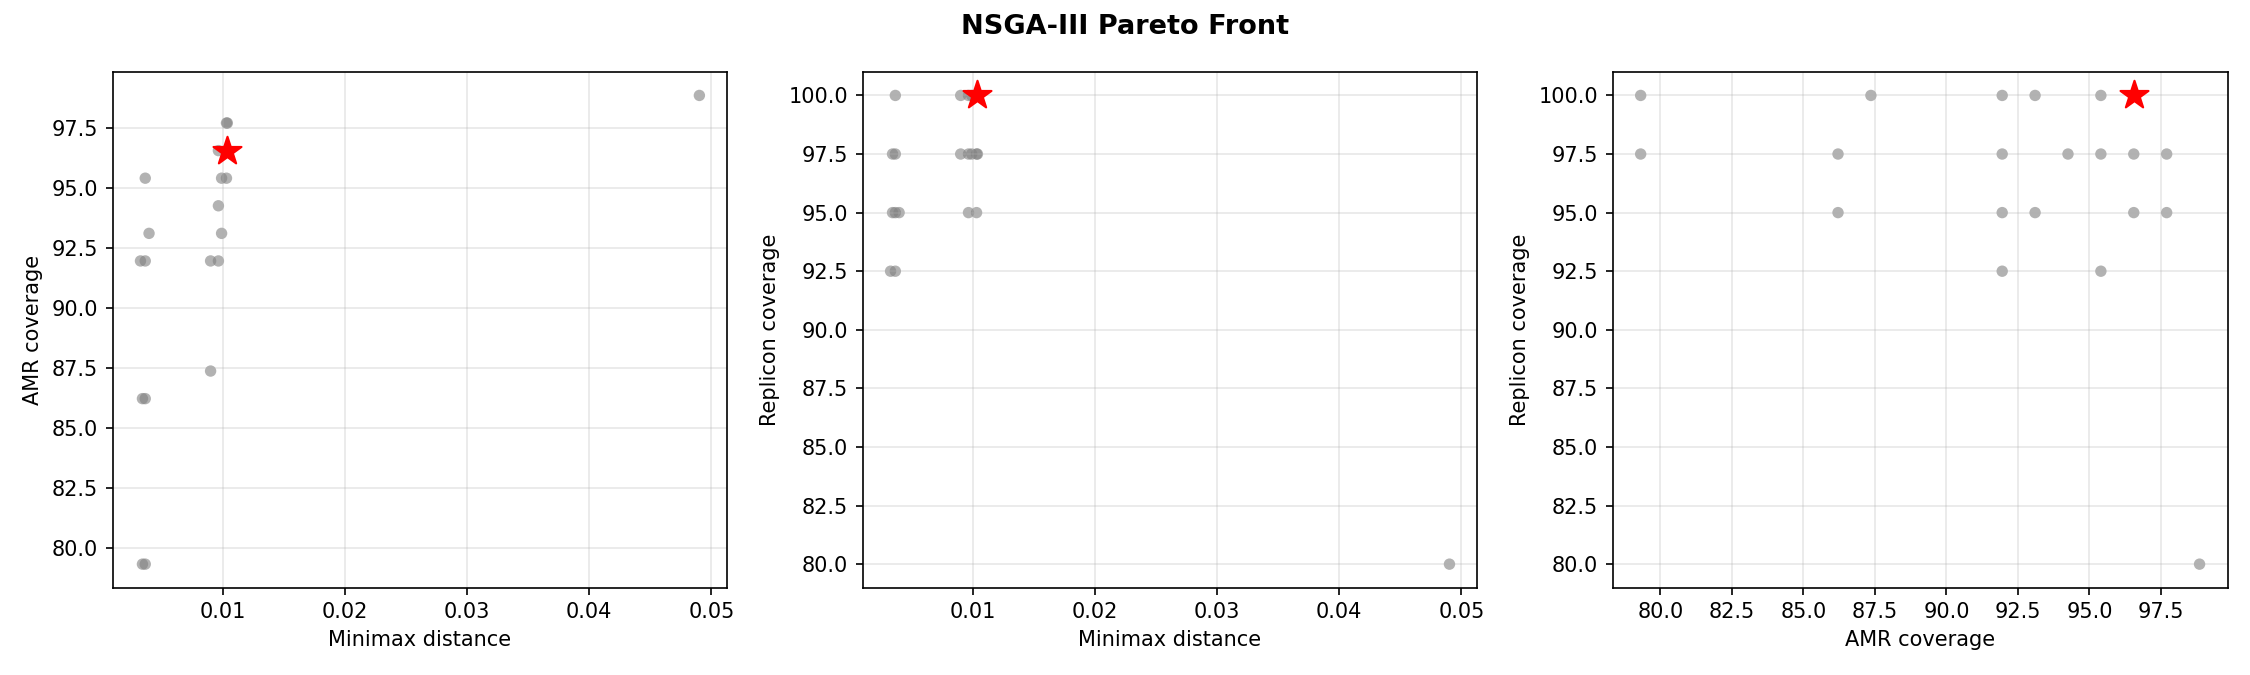
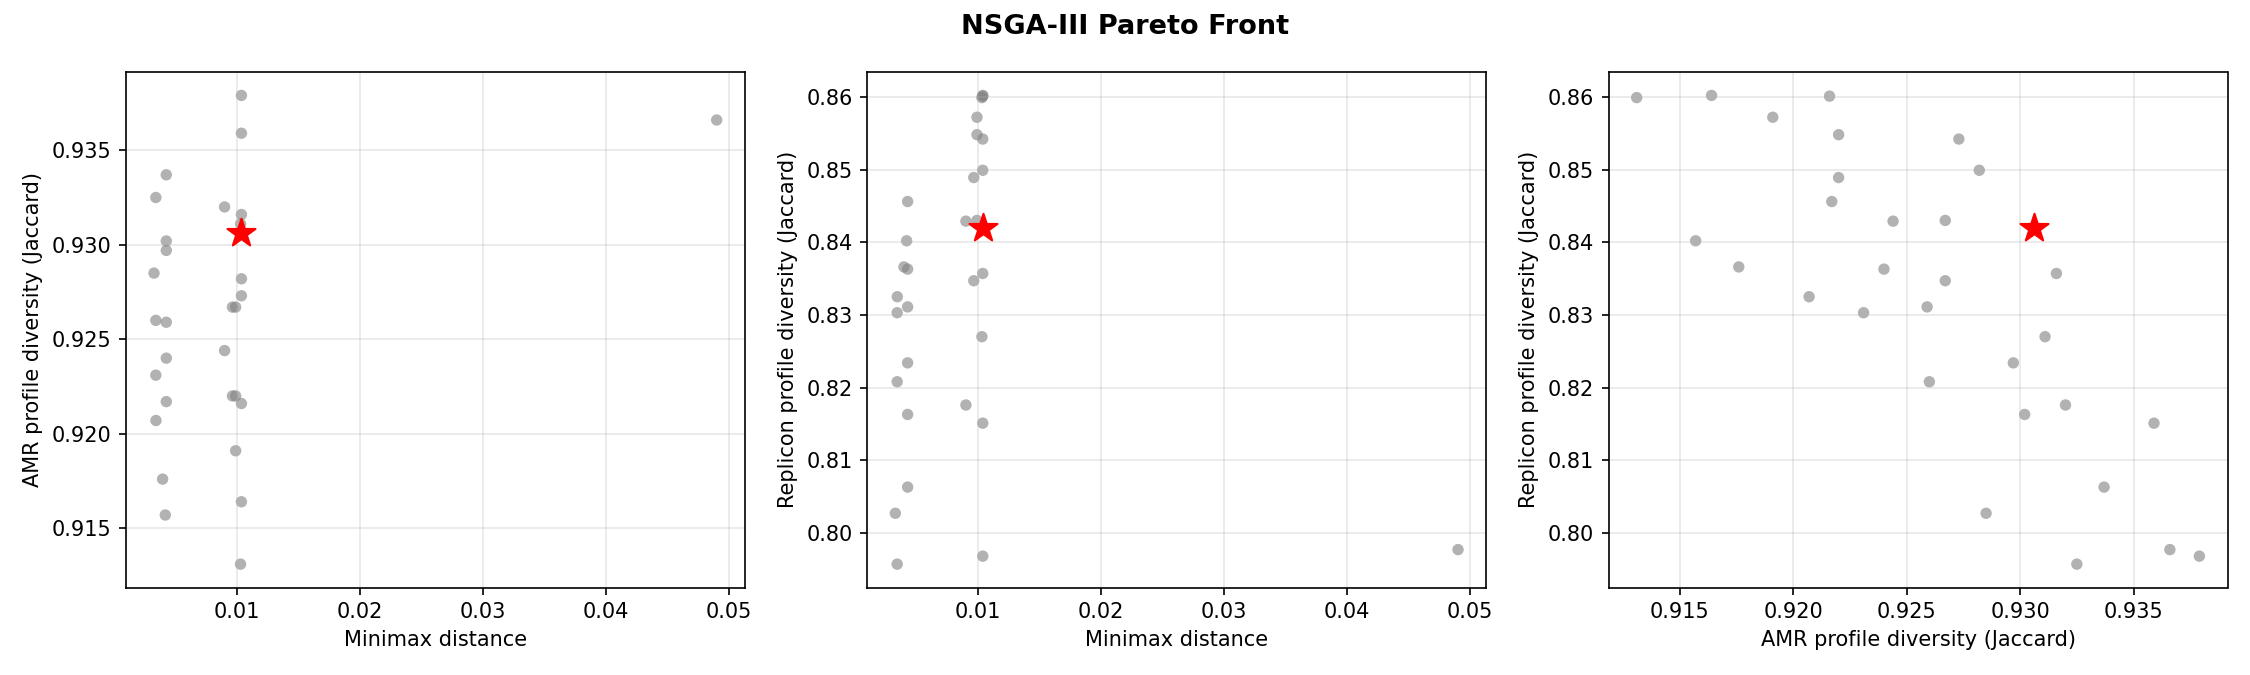
Switch NSGA-III objectives to Jaccard profile diversity
Replace set-cover coverage (fraction of unique genes covered) with mean
pairwise Jaccard distance on AMR and replicon profiles. This rewards
selecting samples spread across profile space rather than just ticking
every gene box. Regenerate EuSCAPE example with new metrics.

diff --git a/src/repseq/nsga3.py b/src/repseq/nsga3.py
@@ -15,6 +15,7 @@ from pymoo.core.problem import ElementwiseProblem
 from pymoo.core.sampling import Sampling
 from pymoo.optimize import minimize
 from pymoo.util.ref_dirs import get_reference_directions
+from scipy.spatial.distance import pdist, squareform
 
 from repseq.amr_cover import build_feature_matrix
 from repseq.joint import tree_to_dist_matrix
@@ -24,10 +25,10 @@ from repseq.plots import plot_nsga3_front, plot_nsga3_parallel
 
 
 class _RepseqProblem(ElementwiseProblem):
-    def __init__(self, dist_matrix: np.ndarray, amr_matrix: np.ndarray, rep_matrix: np.ndarray, k: int):
+    def __init__(self, dist_matrix: np.ndarray, amr_jaccard_dm: np.ndarray, rep_jaccard_dm: np.ndarray, k: int):
         self.D = dist_matrix
-        self.A = amr_matrix
-        self.R = rep_matrix
+        self.AMR_J = amr_jaccard_dm
+        self.REP_J = rep_jaccard_dm
         self.k = k
         self.n_total = dist_matrix.shape[0]
         super().__init__(
@@ -40,17 +41,24 @@ class _RepseqProblem(ElementwiseProblem):
 
     def _evaluate(self, x, out, *args, **kwargs):
         idx = list(x)
-        # f1: minimax distance (minimise directly)
+
+        # f1: minimax distance (minimise directly -- lower = better coverage)
         unselected = list(set(range(self.n_total)) - set(idx))
         if unselected:
             min_dists = self.D[np.ix_(unselected, idx)].min(axis=1)
             f1 = float(min_dists.max())
         else:
             f1 = 0.0
-        # f2: AMR coverage (negate for minimisation)
-        f2 = -float((self.A[idx, :].sum(axis=0) > 0).mean()) if self.A.shape[1] > 0 else -1.0
-        # f3: replicon coverage (negate for minimisation)
-        f3 = -float((self.R[idx, :].sum(axis=0) > 0).mean()) if self.R.shape[1] > 0 else -1.0
+
+        # f2: AMR profile diversity -- mean pairwise Jaccard (negate to minimise)
+        n_pairs = self.k * (self.k - 1)
+        sub_amr = self.AMR_J[np.ix_(idx, idx)]
+        f2 = -(sub_amr.sum() / n_pairs) if n_pairs > 0 else 0.0
+
+        # f3: replicon profile diversity -- mean pairwise Jaccard (negate to minimise)
+        sub_rep = self.REP_J[np.ix_(idx, idx)]
+        f3 = -(sub_rep.sum() / n_pairs) if n_pairs > 0 else 0.0
+
         out["F"] = [f1, f2, f3]
 
 
@@ -106,18 +114,18 @@ def select_display_solutions(pareto_df: pd.DataFrame, rec_idx: int) -> list[int]
 
     Returns solution indices for:
     1. Recommended (closest to ideal)
-    2. Best AMR coverage
-    3. Best replicon coverage
+    2. Best AMR diversity
+    3. Best replicon diversity
     4. Best phylo (lowest minimax_dist)
     5. Gap filler (max-min distance to the other 4 in normalised space)
     """
     chosen: list[int] = [rec_idx]
 
-    best_amr = int(pareto_df["pct_amr_covered"].idxmax())
+    best_amr = int(pareto_df["amr_profile_div"].idxmax())
     if best_amr not in chosen:
         chosen.append(best_amr)
 
-    best_rep = int(pareto_df["pct_rep_covered"].idxmax())
+    best_rep = int(pareto_df["rep_profile_div"].idxmax())
     if best_rep not in chosen:
         chosen.append(best_rep)
 
@@ -126,7 +134,7 @@ def select_display_solutions(pareto_df: pd.DataFrame, rec_idx: int) -> list[int]
         chosen.append(best_phylo)
 
     if len(chosen) < 5:
-        obj = pareto_df[["minimax_dist", "pct_amr_covered", "pct_rep_covered"]].values.copy()
+        obj = pareto_df[["minimax_dist", "amr_profile_div", "rep_profile_div"]].values.copy()
         for col_idx in range(obj.shape[1]):
             col_min, col_max = obj[:, col_idx].min(), obj[:, col_idx].max()
             rng = col_max - col_min
@@ -178,7 +186,8 @@ def run_nsga3(
     """Run NSGA-III multi-objective selection.
 
     Optimises three objectives simultaneously: minimax phylogenetic
-    distance, AMR gene coverage, and replicon type coverage.
+    distance, AMR profile diversity (mean pairwise Jaccard), and
+    replicon profile diversity (mean pairwise Jaccard).
 
     Returns list of sample IDs from the recommended Pareto-optimal solution.
     """
@@ -225,8 +234,15 @@ def run_nsga3(
 
     amr_cols = [c for c in binary_matrix.columns if c.startswith("AMR:")]
     rep_cols = [c for c in binary_matrix.columns if c.startswith("REP:")]
-    amr_matrix = binary_matrix.loc[names, amr_cols].values if amr_cols else np.empty((len(names), 0))
-    rep_matrix = binary_matrix.loc[names, rep_cols].values if rep_cols else np.empty((len(names), 0))
+
+    amr_arr = binary_matrix.loc[names, amr_cols].values.astype(float) if amr_cols else np.zeros((len(names), 1))
+    rep_arr = binary_matrix.loc[names, rep_cols].values.astype(float) if rep_cols else np.zeros((len(names), 1))
+
+    amr_jac = squareform(pdist(amr_arr, metric="jaccard"))
+    amr_jac = np.nan_to_num(amr_jac, nan=0.0)
+
+    rep_jac = squareform(pdist(rep_arr, metric="jaccard"))
+    rep_jac = np.nan_to_num(rep_jac, nan=0.0)
 
     print_message(
         f"Problem: select {n} from {len(names)} samples | "
@@ -234,7 +250,7 @@ def run_nsga3(
         "info",
     )
 
-    problem = _RepseqProblem(tree_dm, amr_matrix, rep_matrix, n)
+    problem = _RepseqProblem(tree_dm, amr_jac, rep_jac, n)
     ref_dirs = get_reference_directions("das-dennis", 3, n_partitions=12)
 
     algorithm = NSGA3(
@@ -269,30 +285,28 @@ def run_nsga3(
     raw_F = opt.get("F")
 
     # f1 (minimax) is already a minimisation target (un-negated)
-    # f2, f3 (AMR, replicon coverage) were negated -- un-negate them
+    # f2, f3 (AMR, replicon diversity) were negated -- un-negate them
     front_minimax = raw_F[:, 0]
-    front_amr = -raw_F[:, 1]
-    front_rep = -raw_F[:, 2]
+    front_amr_div = -raw_F[:, 1]
+    front_rep_div = -raw_F[:, 2]
 
     print_message(f"Pareto front size: {len(raw_F)} solutions", "success")
 
     # Normalise objectives for closest-to-ideal recommendation
-    front_obj = np.column_stack([front_minimax, front_amr * 100, front_rep * 100])
-    obj = front_obj.copy()
-
-    # minimax: lower is better -- invert after normalising
-    minimax_vals = obj[:, 0]
-    mini_min, mini_max = minimax_vals.min(), minimax_vals.max()
-    if mini_max > mini_min:
-        obj[:, 0] = 1.0 - (minimax_vals - mini_min) / (mini_max - mini_min)
-    else:
-        obj[:, 0] = 1.0
-    # AMR and replicon are 0-100; normalise to 0-1
-    obj[:, 1] = (obj[:, 1] - obj[:, 1].min()) / max(obj[:, 1].max() - obj[:, 1].min(), 1e-9)
-    obj[:, 2] = (obj[:, 2] - obj[:, 2].min()) / max(obj[:, 2].max() - obj[:, 2].min(), 1e-9)
-
+    obj = np.column_stack([front_minimax, front_amr_div, front_rep_div])
+    obj_norm = obj.copy()
+    for col_i in range(3):
+        col = obj[:, col_i]
+        lo, hi = col.min(), col.max()
+        if hi > lo:
+            obj_norm[:, col_i] = (col - lo) / (hi - lo)
+        else:
+            obj_norm[:, col_i] = 1.0
+    # minimax: lower is better -- invert
+    obj_norm[:, 0] = 1.0 - obj_norm[:, 0]
+    # AMR and replicon: higher is better -- keep as-is
     ideal = np.ones(3)
-    dists_to_ideal = np.linalg.norm(obj - ideal, axis=1)
+    dists_to_ideal = np.linalg.norm(obj_norm - ideal, axis=1)
     rec_idx = int(np.argmin(dists_to_ideal))
 
     # Build pareto_front.tsv
@@ -303,8 +317,8 @@ def run_nsga3(
         rows.append({
             "solution_id": si,
             "minimax_dist": float(front_minimax[si]),
-            "pct_amr_covered": round(float(front_amr[si]) * 100, 2),
-            "pct_rep_covered": round(float(front_rep[si]) * 100, 2),
+            "amr_profile_div": round(float(front_amr_div[si]), 4),
+            "rep_profile_div": round(float(front_rep_div[si]), 4),
             "is_recommended": si == rec_idx,
             "selected_samples": ";".join(sorted(sample_names)),
         })
@@ -330,8 +344,8 @@ def run_nsga3(
     print_message(
         f"Recommended solution (closest to ideal): "
         f"minimax dist={rec_row['minimax_dist']:.5f}, "
-        f"AMR={rec_row['pct_amr_covered']:.1f}%, "
-        f"replicons={rec_row['pct_rep_covered']:.1f}%",
+        f"AMR diversity={rec_row['amr_profile_div']:.4f}, "
+        f"replicon diversity={rec_row['rep_profile_div']:.4f}",
         "success",
     )
     print_message(f"Selected {len(rec_samples)} samples: {rec_samples}", "info")

diff --git a/src/repseq/plots.py b/src/repseq/plots.py
@@ -483,9 +483,9 @@ def plot_nsga3_front(pareto_df: pd.DataFrame, output_dir: str) -> str:
     out_path = os.path.join(output_dir, "pareto_front.png")
 
     pairs = [
-        ("minimax_dist", "pct_amr_covered", "Minimax distance", "AMR coverage"),
-        ("minimax_dist", "pct_rep_covered", "Minimax distance", "Replicon coverage"),
-        ("pct_amr_covered", "pct_rep_covered", "AMR coverage", "Replicon coverage"),
+        ("minimax_dist", "amr_profile_div", "Minimax distance", "AMR profile diversity (Jaccard)"),
+        ("minimax_dist", "rep_profile_div", "Minimax distance", "Replicon profile diversity (Jaccard)"),
+        ("amr_profile_div", "rep_profile_div", "AMR profile diversity (Jaccard)", "Replicon profile diversity (Jaccard)"),
     ]
 
     rec_mask = pareto_df["is_recommended"].astype(bool)
@@ -519,8 +519,8 @@ def plot_nsga3_parallel(pareto_df: pd.DataFrame, output_dir: str) -> str:
     """Parallel coordinates plot of the NSGA-III Pareto front."""
     out_path = os.path.join(output_dir, "pareto_parallel.png")
 
-    obj_cols = ["minimax_dist", "pct_amr_covered", "pct_rep_covered"]
-    labels = ["Minimax dist", "AMR coverage", "Replicon coverage"]
+    obj_cols = ["minimax_dist", "amr_profile_div", "rep_profile_div"]
+    labels = ["Minimax dist", "AMR diversity", "Replicon diversity"]
 
     vals = pareto_df[obj_cols].values.copy()
     col_min = vals.min(axis=0)

diff --git a/examples/euscape_nsga3/README.md b/examples/euscape_nsga3/README.md
@@ -2,7 +2,7 @@
 
 This walkthrough demonstrates the NSGA-III multi-objective selection workflow on 79 *Klebsiella pneumoniae* isolates from the **EuSCAPE** (European Survey of Carbapenemase-Producing Enterobacteriaceae) collection. Unlike `repseq select`, which splits a fixed budget between phylogenetic and AMR objectives, NSGA-III optimises all three objectives simultaneously and returns a Pareto front of non-dominated solutions.
 
-The goal: select 20 representative isolates for follow-up long-read sequencing, balancing phylogenetic breadth, AMR gene diversity, and plasmid replicon diversity without pre-specifying a trade-off parameter (alpha).
+The goal: select 20 representative isolates for follow-up long-read sequencing, balancing phylogenetic breadth, AMR profile diversity, and plasmid replicon profile diversity without pre-specifying a trade-off parameter (alpha).
 
 ## Dataset
 
@@ -24,14 +24,14 @@ Note: 58 of the 79 assemblies have matching entries in the Kleborate output and 
 **NSGA-III** (Non-dominated Sorting Genetic Algorithm III) optimises three objectives simultaneously:
 
 1. **Minimax phylogenetic distance** -- minimise the worst-case gap between any unselected sample and its nearest selected sample. This is the same criterion used by PARNAS: the minimax distance measures how well the selected set covers the full phylogeny, with lower values meaning no sample is far from a representative. Unlike mean pairwise distance, minimax directly penalises large gaps in coverage.
-2. **AMR gene coverage** -- maximise the fraction of unique AMR gene features (from Kleborate) present in at least one selected sample.
-3. **Replicon type coverage** -- maximise the fraction of unique plasmid replicon types (from ABRicate plasmidfinder) present in at least one selected sample.
+2. **AMR profile diversity** -- maximise the mean pairwise Jaccard distance between AMR gene profiles of selected samples. A value of 1.0 means all selected pairs have completely non-overlapping resistance profiles; 0.0 means all selected samples have identical profiles. This rewards selecting samples that are spread across AMR profile space rather than simply ticking every gene box (as set-cover coverage does).
+3. **Replicon profile diversity** -- maximise the mean pairwise Jaccard distance between plasmid replicon profiles of selected samples. Interpretation is the same as for AMR: higher values mean more diverse replicon repertoires across the selected set.
 
 Unlike `repseq select` (the split method), NSGA-III does not require an alpha parameter to balance phylogenetic vs. AMR objectives. Instead, it uses Das-Dennis reference directions (12 partitions = 91 reference points for 3 objectives) to maintain diversity across the Pareto front. The algorithm returns all non-dominated solutions, and the user chooses from the front.
 
 **Solution representation:** Each candidate solution is a fixed-size set of k=20 sample indices. Custom crossover (pool-and-resample) and mutation (swap one selected sample for an unselected one) operators ensure valid subsets throughout the search. The population size is 100 and the algorithm runs for 300 generations.
 
-**Recommended solution:** The solution closest to the ideal point in normalised objective space, where minimax distance is inverted (lower = better) and AMR/replicon coverages are normalised to [0, 1]. This is the solution that best balances all three objectives without strongly sacrificing any one.
+**Recommended solution:** The solution closest to the ideal point in normalised objective space, where minimax distance is inverted (lower = better) and AMR/replicon diversities are normalised to [0, 1]. This is the solution that best balances all three objectives without strongly sacrificing any one.
 
 ## Input files
 
@@ -64,25 +64,27 @@ pixi run repseq nsga3 \
 
 ## Pareto front
 
-NSGA-III returned **21 non-dominated solutions**, each representing a different trade-off between minimax distance, AMR coverage, and replicon coverage. The recommended solution (closest to the ideal point) achieves **96.55% AMR coverage**, **100.0% replicon coverage**, and a minimax distance of **0.01037**.
+NSGA-III returned **31 non-dominated solutions**, each representing a different trade-off between minimax distance, AMR profile diversity, and replicon profile diversity. The recommended solution (closest to the ideal point) achieves **AMR diversity 0.9306**, **replicon diversity 0.8419**, and a minimax distance of **0.01037**.
 
 The table below shows a representative subset of solutions spanning the range of trade-offs:
 
-| Solution | Minimax dist | AMR % | Replicon % | Note |
-|----------|-------------|-------|------------|------|
-| 0 | 0.00326 | 91.95 | 92.50 | Lowest minimax (best phylo coverage) |
-| 2 | 0.04902 | 98.85 | 80.00 | Highest AMR coverage |
-| 6 | 0.00365 | 79.31 | 100.00 | Full replicon coverage, lower AMR |
-| **16** | **0.01037** | **96.55** | **100.00** | **Recommended (closest to ideal)** |
-| 3 | 0.01037 | 97.70 | 97.50 | Strong AMR, slightly lower replicons |
-| 12 | 0.01030 | 95.40 | 100.00 | Full replicon, good AMR balance |
-| 18 | 0.00900 | 87.36 | 100.00 | Gap filler -- moderate on all axes |
+| Solution | Minimax dist | AMR diversity | Replicon diversity | Note |
+|----------|-------------|---------------|-------------------|------|
+| 4 | 0.00326 | 0.9285 | 0.8027 | Lowest minimax (best phylo coverage) |
+| 16 | 0.01037 | 0.9379 | 0.7968 | Highest AMR diversity |
+| 25 | 0.01037 | 0.9164 | 0.8602 | Highest replicon diversity |
+| **22** | **0.01037** | **0.9306** | **0.8419** | **Recommended (closest to ideal)** |
+| 17 | 0.01037 | 0.9273 | 0.8542 | Strong AMR, good replicons |
+| 7 | 0.01030 | 0.9131 | 0.8599 | High replicon, moderate AMR |
+| 29 | 0.04902 | 0.9366 | 0.7977 | Gap filler -- high AMR diversity, poor phylo |
 
-The full front ranges from 79.3--98.9% AMR coverage, 80.0--100.0% replicon coverage, and 0.00326--0.04902 minimax distance. Solutions with lower minimax distance (better phylogenetic coverage) tend to sacrifice AMR coverage, but the trade-off is gradual: the recommended solution at 0.01037 minimax distance achieves 96.55% AMR coverage while maintaining full replicon coverage.
+The full front ranges from 0.9131--0.9379 AMR diversity, 0.7957--0.8602 replicon diversity, and 0.00326--0.04902 minimax distance. The AMR and replicon diversity metrics are mean pairwise Jaccard distances (0--1 scale), so these values indicate high overall diversity across solutions: even the worst solutions select samples with substantially different AMR profiles from each other.
+
+Note: the AMR diversity metric here is not directly comparable to the AMR coverage percentage reported by `repseq select`. Coverage measures the fraction of unique genes represented at least once; Jaccard diversity measures how different the selected profiles are from each other. A solution with 0.93 Jaccard diversity selects samples whose AMR repertoires overlap on average only 7% of their genes.
 
 ![Pareto front scatter](pareto_front.png)
 
-The 3-panel scatter shows pairwise relationships between objectives. The red star marks the recommended solution. Most solutions cluster in the low-minimax, high-replicon region, with outliers trading phylogenetic coverage for higher AMR diversity.
+The 3-panel scatter shows pairwise relationships between objectives. The red star marks the recommended solution. The AMR vs. replicon diversity panel shows a clear trade-off: solutions with highest AMR diversity tend to have lower replicon diversity and vice versa.
 
 ![Parallel coordinates](pareto_parallel.png)
 
@@ -92,63 +94,63 @@ The parallel coordinates plot shows the same trade-offs. The recommended solutio
 
 Five solutions are selected as anchor points across the Pareto front, each representing an extreme or balanced trade-off. These are chosen deterministically: best on each individual objective, the recommended balanced solution, and a gap-filler that maximises diversity from the other four in normalised objective space.
 
-### Recommended (balanced) -- solution 16
+### Recommended (balanced) -- solution 22
 
 | Metric | Value |
 |--------|-------|
 | Minimax distance | 0.01037 |
-| AMR coverage | 96.55% |
-| Replicon coverage | 100.00% |
+| AMR profile diversity | 0.9306 |
+| Replicon profile diversity | 0.8419 |
 
-The recommended solution balances all three objectives. It achieves full replicon coverage while maintaining strong AMR coverage (96.55%) and reasonable phylogenetic coverage. This is the best starting point when no single objective dominates the study design.
+The recommended solution balances all three objectives. It achieves strong AMR diversity (0.9306) and replicon diversity (0.8419) while maintaining reasonable phylogenetic coverage. This is the best starting point when no single objective dominates the study design.
 
 ![Recommended solution heatmap](recommended_heatmap.png)
 
-### Best AMR -- solution 2
+### Best AMR diversity -- solution 16
 
 | Metric | Value |
 |--------|-------|
-| Minimax distance | 0.04902 |
-| AMR coverage | 98.85% |
-| Replicon coverage | 80.00% |
+| Minimax distance | 0.01037 |
+| AMR profile diversity | 0.9379 |
+| Replicon profile diversity | 0.7968 |
 
-This solution maximises AMR gene coverage at the cost of both phylogenetic and replicon diversity. The high minimax distance (0.049) means some unselected samples are poorly represented by the selection, and replicon coverage drops to 80%. Suitable when capturing rare resistance determinants is the primary goal.
+This solution maximises AMR profile diversity, selecting samples with the most dissimilar resistance repertoires. Replicon diversity is lower (0.7968), indicating more overlap in plasmid replicon profiles among the selected samples. Suitable when capturing diverse resistance mechanisms is the primary goal.
 
 ![Best AMR heatmap](solution_amr_heatmap.png)
 
-### Best replicon -- solution 6
+### Best replicon diversity -- solution 25
 
 | Metric | Value |
 |--------|-------|
-| Minimax distance | 0.00365 |
-| AMR coverage | 79.31% |
-| Replicon coverage | 100.00% |
+| Minimax distance | 0.01037 |
+| AMR profile diversity | 0.9164 |
+| Replicon profile diversity | 0.8602 |
 
-This solution achieves full replicon coverage with excellent phylogenetic coverage (minimax 0.0037), but AMR coverage drops to 79.3%. It prioritises plasmid diversity and phylogenetic representativeness over AMR gene capture.
+This solution maximises replicon profile diversity, selecting samples with the most dissimilar plasmid replicon profiles. AMR diversity is slightly lower (0.9164). This is the best choice when plasmid diversity is the priority, such as for mobilome studies.
 
 ![Best replicon heatmap](solution_rep_heatmap.png)
 
-### Best phylo -- solution 0
+### Best phylo -- solution 4
 
 | Metric | Value |
 |--------|-------|
 | Minimax distance | 0.00326 |
-| AMR coverage | 91.95% |
-| Replicon coverage | 92.50% |
+| AMR profile diversity | 0.9285 |
+| Replicon profile diversity | 0.8027 |
 
-The lowest minimax distance means every unselected sample is close to at least one selected representative. AMR and replicon coverage are both above 90%, making this a strong choice when phylogenetic representativeness is the priority.
+The lowest minimax distance means every unselected sample is close to at least one selected representative. AMR diversity is still high (0.9285), making this a strong choice when phylogenetic representativeness is the priority.
 
 ![Best phylo heatmap](solution_phylo_heatmap.png)
 
-### Gap filler -- solution 18
+### Gap filler -- solution 29
 
 | Metric | Value |
 |--------|-------|
-| Minimax distance | 0.00900 |
-| AMR coverage | 87.36% |
-| Replicon coverage | 100.00% |
+| Minimax distance | 0.04902 |
+| AMR profile diversity | 0.9366 |
+| Replicon profile diversity | 0.7977 |
 
-Selected as the solution most distant from the other four anchors in normalised objective space. It occupies a moderate position on all three axes, filling a gap in the displayed trade-off landscape that the extremes and the recommended solution leave uncovered.
+Selected as the solution most distant from the other four anchors in normalised objective space. It has the highest minimax distance (worst phylogenetic coverage) but strong AMR diversity, filling a gap in the displayed trade-off landscape that the extremes and the recommended solution leave uncovered.
 
 ![Gap filler heatmap](solution_balanced_heatmap.png)
 
@@ -156,20 +158,20 @@ Selected as the solution most distant from the other four anchors in normalised 
 
 | File | Description |
 |------|-------------|
-| `pareto_front.tsv` | All 21 Pareto-optimal solutions with objective values and sample lists |
+| `pareto_front.tsv` | All 31 Pareto-optimal solutions with objective values and sample lists |
 | `recommended.txt` | Sample IDs from the recommended solution |
 | `pareto_front.png` | 3-panel pairwise scatter of Pareto front |
 | `pareto_parallel.png` | Parallel coordinates plot of Pareto front |
 | `abricate_plasmidfinder.tsv` | ABRicate plasmidfinder output (replicon hits) |
 | `recommended_heatmap.png` | Tree + AMR/replicon heatmap for recommended solution |
-| `solution_amr_heatmap.png` | Tree + heatmap for best AMR solution |
-| `solution_rep_heatmap.png` | Tree + heatmap for best replicon solution |
+| `solution_amr_heatmap.png` | Tree + heatmap for best AMR diversity solution |
+| `solution_rep_heatmap.png` | Tree + heatmap for best replicon diversity solution |
 | `solution_phylo_heatmap.png` | Tree + heatmap for best phylo solution |
 | `solution_balanced_heatmap.png` | Tree + heatmap for gap-filler solution |
 
 ## Notes
 
-- **Replicon objective:** The replicon diversity objective is only meaningful when ABRicate plasmidfinder (or PlasmidFinder) output is provided. With Kleborate-only input and no replicon data, replicon coverage is trivially 100% for all solutions and the problem reduces to a 2-objective optimisation. Always provide replicon data for a real 3-objective run.
+- **Replicon objective:** The replicon diversity objective is only meaningful when ABRicate plasmidfinder (or PlasmidFinder) output is provided. With Kleborate-only input and no replicon data, replicon diversity is trivially zero for all solutions and the problem reduces to a 2-objective optimisation. Always provide replicon data for a real 3-objective run.
 
 - **Tree-matrix intersection:** NSGA-III operates on the intersection of tree tips and feature matrix rows. If some assemblies are missing from the Kleborate output (e.g., non-*Kpn* samples filtered out), the effective sample pool is smaller than the number of assemblies.
 
